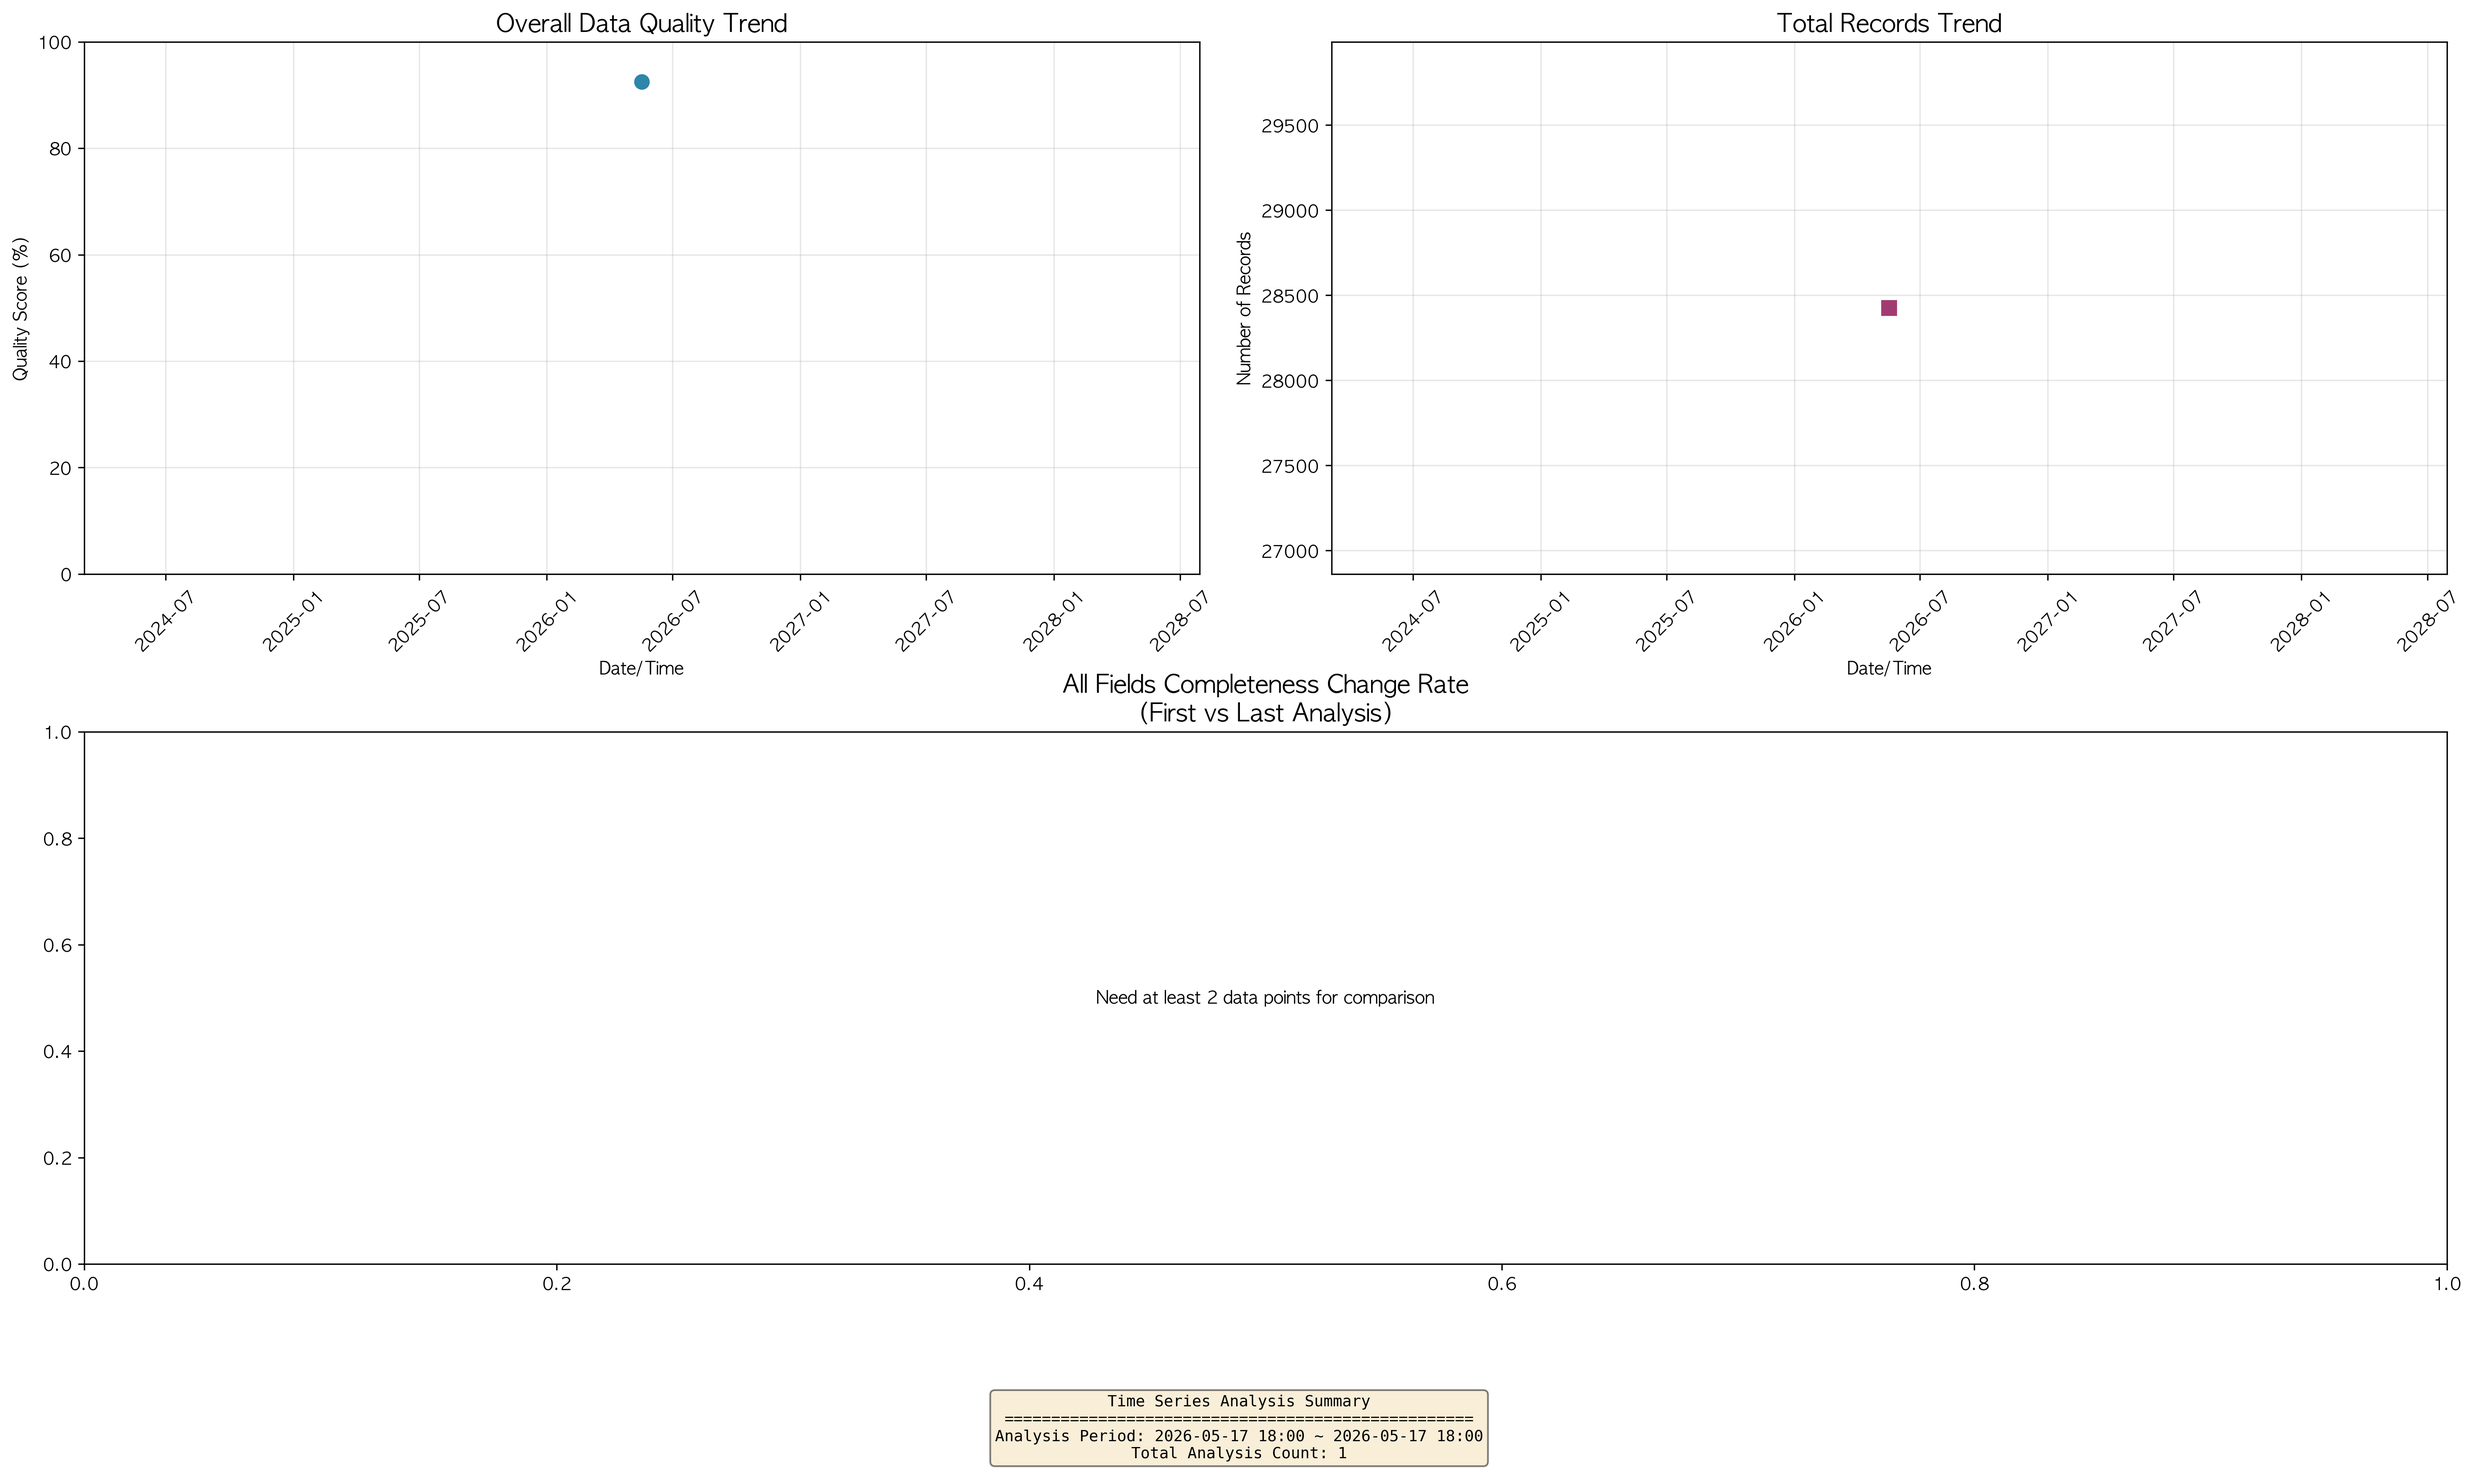
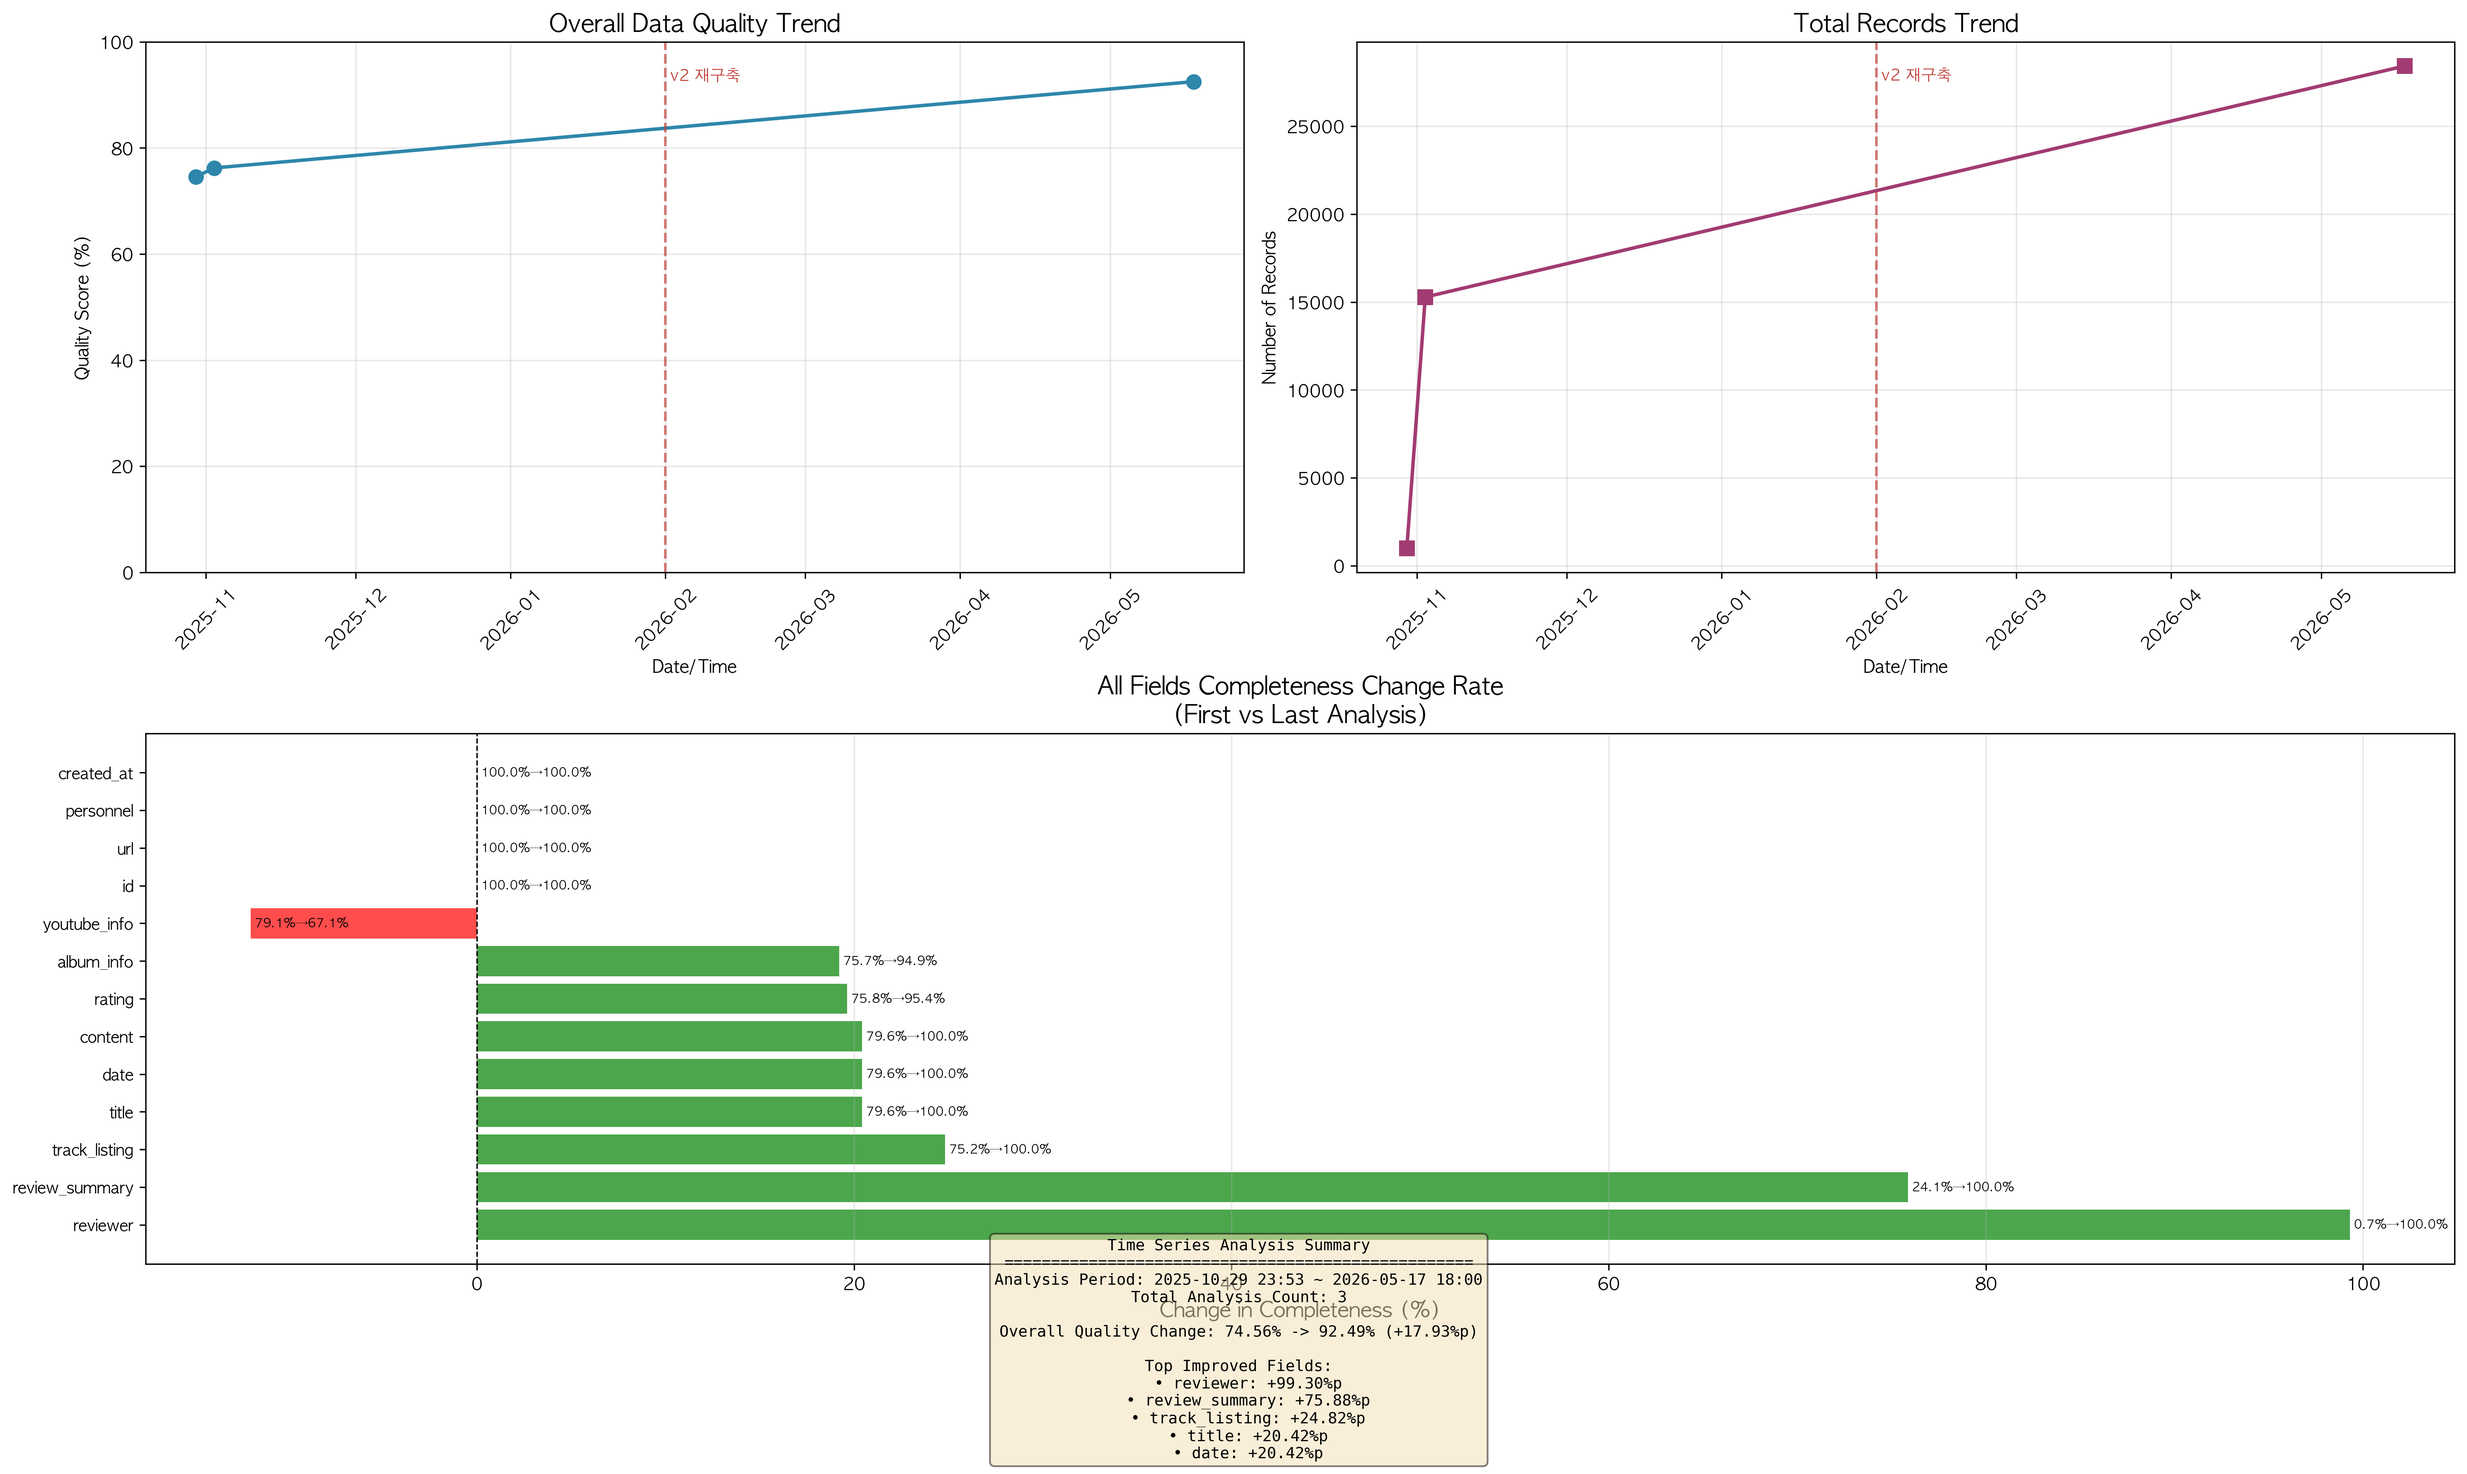
feat(dashboard): 적재 이력 시각화 + v1/v2 파이프라인 경계 표시

diff --git a/dashboard/data_quality_visualizer.py b/dashboard/data_quality_visualizer.py
@@ -25,6 +25,13 @@ TABLE_NAME = 'allthatjazz_raw'
 HEATMAP_FILE = 'data_quality_heatmap.png'
 TIMESERIES_FILE = 'data_quality_timeseries.png'
 HISTORY_CSV = 'data_quality_history.csv'
+INGESTION_FILE = 'ingestion_timeline.png'  # 적재 이력(파이프라인 처리) 시각화
+
+# 적재 이력 통합 VIEW (011 마이그레이션에서 생성) — 처리 이력 축, 내용 품질 축과 별개
+INGESTION_VIEW = 'ingestion_timeline'
+
+# 파이프라인 v1→v2 경계
+PIPELINE_V2_START = '2026-02'
 
 # 완성도(completeness) 등급 임계값 — 높을수록 좋음, "이상(>=)"으로 판정
 #   completeness = 100 - missing_pct 이므로 누락률 임계값과 짝을 이룬다
@@ -587,13 +594,28 @@ class DataQualityVisualizer:
             # timestamp를 datetime으로 변환
             df_history['datetime'] = pd.to_datetime(df_history['timestamp'])
             df_history = df_history.sort_values('datetime')
-            
+
+            # v1→v2 파이프라인 재구축 경계. 이 그래프는 v1(2025)과 v2(2026~) 측정이 함께 있어,
+            # 경계선을 그으면 "품질 도약(76→92%)이 파이프라인 교체와 맞물린다"를 시각적으로 지목한다.
+            # tz 유무가 섞이면 axvline 비교가 깨지므로 관측 시각의 tz에 맞춰 경계값을 만든다.
+            v2_line = pd.Timestamp(PIPELINE_V2_START + '-01')
+            if getattr(df_history['datetime'].dt, 'tz', None) is not None:
+                v2_line = v2_line.tz_localize(df_history['datetime'].dt.tz)
+
+            def _mark_v2(label=True):
+                """현재 서브플롯에 v2 경계선을 긋는다 (시간축 서브플롯 전용)."""
+                plt.axvline(v2_line, color='#C1443C', linestyle='--', linewidth=1.5, alpha=0.7)
+                if label:
+                    ymax = plt.ylim()[1]
+                    plt.text(v2_line, ymax * 0.95, ' v2 재구축', color='#C1443C',
+                             fontsize=9, va='top', ha='left')
+
             # 전체 품질 추이 그래프
             fig = plt.figure(figsize=(20, 12))
-            
+
             # 서브플롯 1: 전체 데이터 품질 추이
             plt.subplot(2, 2, 1)
-            plt.plot(df_history['datetime'], df_history['overall_quality'], 
+            plt.plot(df_history['datetime'], df_history['overall_quality'],
                     marker='o', linewidth=2, markersize=8, color='#2E86AB')
             plt.title('Overall Data Quality Trend', fontsize=14, fontweight='bold')
             plt.xlabel('Date/Time')
@@ -601,17 +623,19 @@ class DataQualityVisualizer:
             plt.ylim(0, 100)
             plt.grid(True, alpha=0.3)
             plt.xticks(rotation=45)
-            
+            _mark_v2()
+
             # 레코드 수 추이
             plt.subplot(2, 2, 2)
-            plt.plot(df_history['datetime'], df_history['total_records'], 
+            plt.plot(df_history['datetime'], df_history['total_records'],
                     marker='s', linewidth=2, markersize=8, color='#A23B72')
             plt.title('Total Records Trend', fontsize=14, fontweight='bold')
             plt.xlabel('Date/Time')
             plt.ylabel('Number of Records')
             plt.grid(True, alpha=0.3)
             plt.xticks(rotation=45)
-            
+            _mark_v2()
+
             # 필드별 completeness 추이 (100%가 아닌 필드들만)
             completeness_cols = [col for col in df_history.columns if col.endswith('_completeness')]
             
@@ -686,7 +710,105 @@ class DataQualityVisualizer:
             print(f"❌ 시계열 시각화 생성 중 오류: {e}")
             import traceback
             traceback.print_exc()
-    
+
+    def visualize_ingestion_timeline(self):
+        """적재 이력(ingestion_timeline VIEW)을 두 관점으로 시각화한다.
+
+        - 왼쪽 = 단계 전환 깔때기(Funnel): crawl→gpt→embedding으로 몇 %가 살아남나.
+          "어느 단계에서 새는가"(병목)를 한눈에. CTO/파이프라인 건강도 관점.
+        - 오른쪽 = 월별 누적 적재 추세: 각 단계가 시간에 따라 얼마나 쌓였나.
+          "요약이 크롤을 따라오나"를 본다. 기획/데이터 볼륨 관점.
+
+        주의: 여기 수치는 '처리 성공량'이지 '내용 결측률'이 아니다.
+        내용 품질은 heatmap/timeseries(=self.df, raw 테이블) 쪽 축으로 별개다.
+        """
+        print("🚚 적재 이력 시각화 생성 중 (ingestion_timeline VIEW)...")
+
+        try:
+            # VIEW를 테이블처럼 조회 (raw 테이블 self.df와 독립 — 관심사 분리)
+            resp = self.supabase.table(INGESTION_VIEW).select('*').execute()
+            rows = resp.data if hasattr(resp, 'data') else None
+
+            if not rows:
+                print("   ℹ  ingestion_timeline VIEW에 데이터가 없어 건너뜁니다.")
+                return
+
+            df = pd.DataFrame(rows)
+
+            # 숫자 컬럼 결측(NULL)은 0으로 — 아직 그 단계에 도달 안 한 배치는 처리량 0.
+            for col in ['crawl_success', 'gpt_ok', 'emb_ok']:
+                if col in df.columns:
+                    df[col] = pd.to_numeric(df[col], errors='coerce').fillna(0)
+
+            crawl_total = int(df['crawl_success'].sum())
+            gpt_total = int(df['gpt_ok'].sum())
+            emb_total = int(df['emb_ok'].sum())
+
+            fig, (ax_funnel, ax_trend) = plt.subplots(1, 2, figsize=(20, 8))
+
+            # ── 왼쪽: 단계 전환 깔때기 ──────────────────────────────
+            stages = ['crawl', 'gpt(summary)', 'embedding']
+            values = [crawl_total, gpt_total, emb_total]
+            colors = ['#2E86AB', '#A23B72', '#3B7A57']
+
+            y_pos = np.arange(len(stages))[::-1]  # 위→아래로 crawl→embed
+            ax_funnel.barh(y_pos, values, color=colors, alpha=0.85)
+            ax_funnel.set_yticks(y_pos)
+            ax_funnel.set_yticklabels(stages, fontsize=12)
+            ax_funnel.set_xlabel('Records processed', fontsize=12)
+            ax_funnel.set_title('Pipeline Stage Funnel\n(how many survive each stage)',
+                                fontsize=14, fontweight='bold')
+            ax_funnel.grid(True, alpha=0.3, axis='x')
+
+            # 각 막대에 건수 + 직전 단계 대비 전환율 표시 (병목 가독성)
+            base = crawl_total if crawl_total else 1
+            for i, (yp, val) in enumerate(zip(y_pos, values)):
+                pct = f"{100.0 * val / base:.1f}%" if i > 0 else "100%"
+                ax_funnel.text(val, yp, f'  {val:,} ({pct})',
+                               va='center', fontsize=11, fontweight='bold')
+
+            # ── 오른쪽: 월별 누적 적재 추세 ─────────────────────────
+            # to_period가 tz를 버리며 경고를 내므로 tz를 먼저 제거한 뒤 월 단위로 변환
+            df['month'] = pd.to_datetime(df['batch_created_at'], errors='coerce', utc=True) \
+                            .dt.tz_localize(None).dt.to_period('M').astype(str)
+            monthly = df.groupby('month')[['crawl_success', 'gpt_ok', 'emb_ok']] \
+                        .sum().sort_index()
+            # 누적(cumulative): "총 데이터 자산이 시간에 따라 얼마까지 쌓였나".
+            # 월별 신규량은 재적재가 있던 달만 튀어 성장 서사를 흐리므로 단조증가 곡선으로 본다.
+            cumulative = monthly.cumsum()
+
+            for col, color, label in [
+                ('crawl_success', '#2E86AB', 'crawl'),
+                ('gpt_ok', '#A23B72', 'gpt(summary)'),
+                ('emb_ok', '#3B7A57', 'embedding'),
+            ]:
+                ax_trend.plot(cumulative.index, cumulative[col], marker='o',
+                              linewidth=2, markersize=7, color=color, label=label)
+                ax_trend.fill_between(range(len(cumulative)), cumulative[col],
+                                      color=color, alpha=0.08)
+
+            # 이 그래프는 전 구간이 v2(신 파이프라인)다. 경계선은 v1이 함께 보이는
+            # CSV 시계열(visualize_timeseries)에 표시하고, 여기선 제목으로 정체만 명시한다.
+            ax_trend.set_title('Cumulative Ingestion by Stage — v2 pipeline (2026-02~)',
+                               fontsize=14, fontweight='bold')
+            ax_trend.set_xlabel('Month')
+            ax_trend.set_ylabel('Cumulative records')
+            ax_trend.grid(True, alpha=0.3)
+            ax_trend.legend(loc='center right')
+            for tick in ax_trend.get_xticklabels():
+                tick.set_rotation(45)
+
+            plt.tight_layout()
+            plt.savefig(INGESTION_FILE, dpi=300, bbox_inches='tight')
+            plt.close()
+            print(f"✅ 적재 이력 시각화 저장 완료: {INGESTION_FILE}")
+            print(f"   깔때기: crawl {crawl_total:,} → gpt {gpt_total:,} → embed {emb_total:,}")
+
+        except Exception as e:
+            print(f"❌ 적재 이력 시각화 생성 중 오류: {e}")
+            import traceback
+            traceback.print_exc()
+
     def _generate_summary_text(self, df_history, fields_to_plot):
         """통계 요약 텍스트 생성"""
         summary_lines = []
@@ -744,11 +866,15 @@ class DataQualityVisualizer:
         
         # 시계열 시각화 생성
         self.visualize_timeseries()
-        
+
+        # 적재 이력(파이프라인 처리 이력) 시각화 — 내용 품질과 별개 축
+        self.visualize_ingestion_timeline()
+
         print("\n🎉 데이터 품질 분석 완료!")
         print("\n📁 생성된 파일:")
         print(f"   • {HEATMAP_FILE} (히트맵)")
         print(f"   • {TIMESERIES_FILE} (시계열 추이)")
+        print(f"   • {INGESTION_FILE} (적재 이력: 단계 깔때기 + 월별 추세)")
         print(f"   • {HISTORY_CSV} (시계열 히스토리)")
 
 def main():
